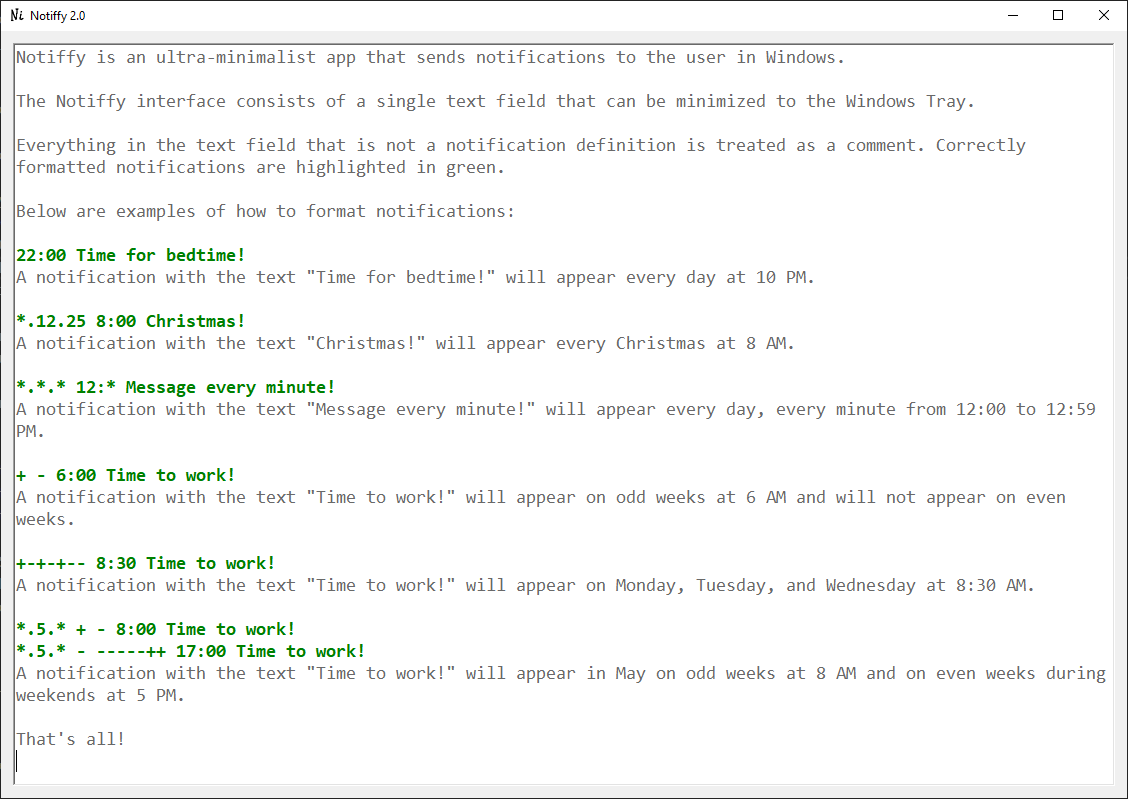
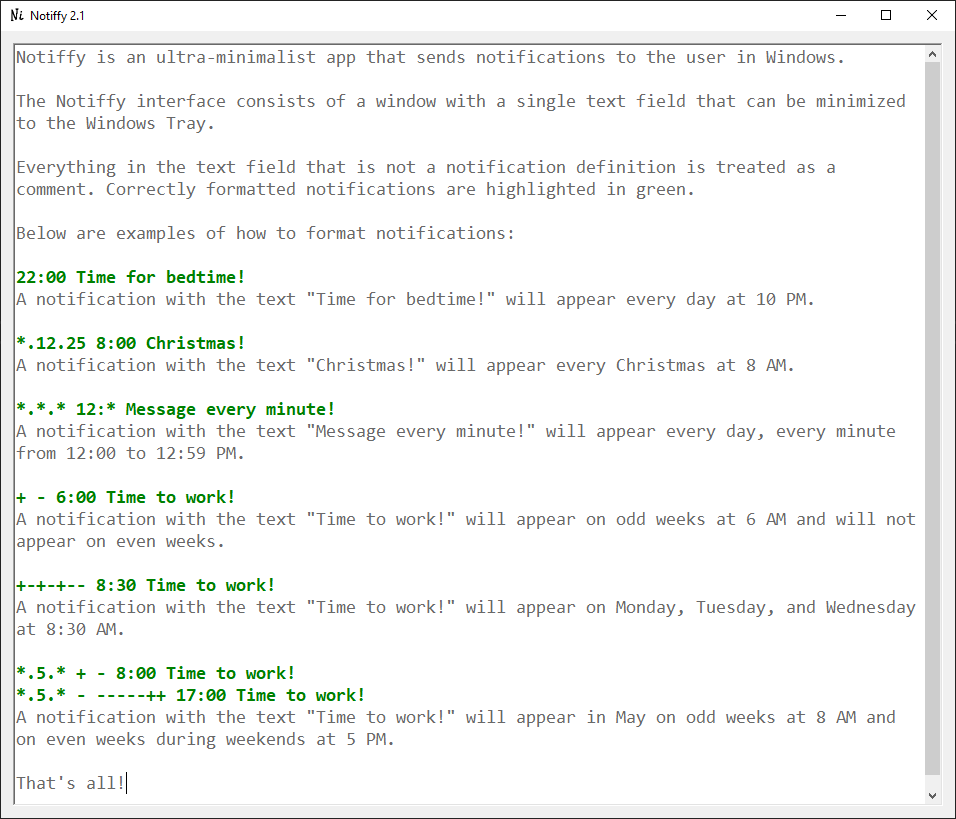
Version 2.1

Changed region(s): [[0.0, 0.0, 1.0, 0.9912], [0.7584, 0.4205, 0.819, 0.4506]]

diff --git a/Notiffy/View/NotificationForm.Designer.cs b/Notiffy/View/NotificationForm.Designer.cs
@@ -1,0 +1,79 @@
+namespace Notiffy.View
+{
+    partial class NotificationForm
+    {
+        /// <summary>
+        /// Required designer variable.
+        /// </summary>
+        private System.ComponentModel.IContainer components = null;
+
+        /// <summary>
+        /// Clean up any resources being used.
+        /// </summary>
+        /// <param name="disposing">true if managed resources should be disposed; otherwise, false.</param>
+        protected override void Dispose(bool disposing)
+        {
+            if (disposing && (components != null))
+            {
+                components.Dispose();
+            }
+            base.Dispose(disposing);
+        }
+
+        #region Windows Form Designer generated code
+
+        /// <summary>
+        /// Required method for Designer support - do not modify
+        /// the contents of this method with the code editor.
+        /// </summary>
+        private void InitializeComponent()
+        {
+            buttonOK = new Button();
+            labelMessage = new Label();
+            SuspendLayout();
+            // 
+            // buttonOK
+            // 
+            buttonOK.BackColor = SystemColors.ButtonFace;
+            buttonOK.Cursor = Cursors.Hand;
+            buttonOK.Font = new Font("Segoe UI", 12F, FontStyle.Bold, GraphicsUnit.Point, 238);
+            buttonOK.ForeColor = SystemColors.ActiveCaptionText;
+            buttonOK.Location = new Point(350, 350);
+            buttonOK.Name = "buttonOK";
+            buttonOK.Size = new Size(100, 50);
+            buttonOK.TabIndex = 0;
+            buttonOK.Text = "OK";
+            buttonOK.UseVisualStyleBackColor = false;
+            buttonOK.Click += buttonOK_Click;
+            // 
+            // labelMessage
+            // 
+            labelMessage.Font = new Font("Segoe UI", 18F, FontStyle.Regular, GraphicsUnit.Point, 238);
+            labelMessage.Location = new Point(100, 100);
+            labelMessage.Name = "labelMessage";
+            labelMessage.Size = new Size(600, 200);
+            labelMessage.TabIndex = 2;
+            labelMessage.Text = "Notification message";
+            labelMessage.TextAlign = ContentAlignment.MiddleCenter;
+            // 
+            // NotificationForm
+            // 
+            AutoScaleDimensions = new SizeF(7F, 15F);
+            AutoScaleMode = AutoScaleMode.Font;
+            BackColor = Color.LemonChiffon;
+            ClientSize = new Size(800, 450);
+            Controls.Add(labelMessage);
+            Controls.Add(buttonOK);
+            FormBorderStyle = FormBorderStyle.None;
+            Name = "NotificationForm";
+            StartPosition = FormStartPosition.CenterScreen;
+            Text = "NotificationForm";
+            ResumeLayout(false);
+        }
+
+        #endregion
+
+        private Button buttonOK;
+        private Label labelMessage;
+    }
+}

diff --git a/Notiffy/View/NotificationForm.cs b/Notiffy/View/NotificationForm.cs
@@ -1,0 +1,58 @@
+using System.Media;
+
+namespace Notiffy.View
+{
+    public partial class NotificationForm : Form
+    {
+        private System.Windows.Forms.Timer countdownTimer;
+        private int countdownValue;
+
+        public NotificationForm()
+        {
+            InitializeComponent();
+            InitializeTimer();
+        }
+
+        private void InitializeTimer()
+        {
+            countdownTimer = new System.Windows.Forms.Timer();
+            countdownTimer.Interval = 1000;
+            countdownTimer.Tick += new EventHandler(CountdownTimer_Tick);
+        }
+
+        public void ShowYourself(string message)
+        {
+            Visible = true;
+            labelMessage.Text = message;
+            TopMost = true;
+            buttonOK.Enabled = false;
+            countdownValue = 3;
+            buttonOK.Text = countdownValue.ToString();
+            countdownTimer.Start();
+            SystemSounds.Beep.Play();
+        }
+
+        private void CountdownTimer_Tick(object sender, EventArgs e)
+        {
+            countdownValue--;
+            if (countdownValue > 0)
+            {
+                SystemSounds.Beep.Play();
+                buttonOK.Text = countdownValue.ToString();
+            }
+            else
+            {
+                countdownTimer.Stop();
+                buttonOK.Enabled = true;
+                buttonOK.Text = "OK";
+            }
+        }
+
+        private void buttonOK_Click(object sender, EventArgs e)
+        {
+            Close();
+        }
+
+
+    }
+}

diff --git a/Notiffy/Model/NotificationTimer.cs b/Notiffy/Model/NotificationTimer.cs
@@ -16,16 +16,20 @@ namespace Notiffy.Model
 
         private void OnTimerElapsed(object? sender, ElapsedEventArgs e)
         {
+            _timer.Stop(); // Zatrzymaj timer, aby uniknąć nakładania się wywołań
             CheckNotifications();
+            _timer.Start(); // Restart timer
         }
 
         private void CheckNotifications()
         {
-            
             var notification = Program.NotificationManager.RetrieveNotification();
             if (notification != null)
             {
-                Program.MainForm.ShowNotification(notification.Message);
+                // Wywołanie ShowNotification na wątku GUI
+                Program.MainForm.Invoke(new Action(() => {
+                    Program.MainForm.ShowNotification(notification.Message);
+                }));
             }
         }
     }

diff --git a/Notiffy/View/MainForm.cs b/Notiffy/View/MainForm.cs
@@ -12,11 +12,23 @@ namespace Notiffy.View
         public MainForm()
         {
             InitializeComponent();
+            this.FormClosing += MainForm_FormClosing;
+        }
+
+        private void MainForm_FormClosing(object sender, FormClosingEventArgs e)
+        {
+            if (e.CloseReason == CloseReason.UserClosing)
+            {
+                e.Cancel = true;
+                Hide();
+                notifyIcon.Visible = true;
+            }
         }
 
         public void ShowNotification(string message)
         {
-            DialogResult result = MessageBox.Show(message, "Notification", MessageBoxButtons.OK, MessageBoxIcon.Information);
+            NotificationForm nf = new();
+            nf.ShowYourself(message);
         }
 
         [DllImport("user32.dll")]

diff --git a/Notiffy/Program.cs b/Notiffy/Program.cs
@@ -9,6 +9,7 @@ namespace Notiffy
         public static NotificationParser NotificationParser { get; set; } = new();
         public static NotificationTimer NotificationTimer { get; set; } = new();
         public static MainForm MainForm { get; set; } = new();
+        public static NotificationForm NotificationForm { get; set; } = new();
 
         [STAThread]
         static void Main()

diff --git a/Notiffy/View/MainForm.Designer.cs b/Notiffy/View/MainForm.Designer.cs
@@ -51,7 +51,7 @@
             Controls.Add(richTextBoxNotification);
             Icon = (Icon)resources.GetObject("$this.Icon");
             Name = "MainForm";
-            Text = "Notiffy 2.0";
+            Text = "Notiffy 2.1";
             Load += MainForm_Load;
             Resize += MainForm_Resize;
             ResumeLayout(false);

diff --git a/README.md b/README.md
@@ -1,32 +1,35 @@
-# Notiffy 2.0
+# Notiffy 2.1
 
 Notiffy is an ultra-minimalist app that sends notifications to the user in Windows.
 
-The Notiffy interface consists of a single text field that can be minimized to the Windows Tray.
+The Notiffy interface consists of a window with a single text field that can be minimized to the Windows Tray.
 
 Everything in the text field that is not a notification definition is treated as a comment. Correctly formatted notifications are highlighted in green.
 
 Below are examples of how to format notifications:
 
-> 22:00 Time for bedtime!
-> 
+22:00 Time for bedtime!
 A notification with the text "Time for bedtime!" will appear every day at 10 PM.
 
-> *.12.25 8:00 Christmas!
+> \*.12.25 8:00 Christmas!
 > 
 A notification with the text "Christmas!" will appear every Christmas at 8 AM.
 
+> \*.\*.\* 12:\* Message every minute!
+> 
+A notification with the text "Message every minute!" will appear every day, every minute from 12:00 to 12:59 PM.
+
+> + - 6:00 Time to work!
+> 
+A notification with the text "Time to work!" will appear on odd weeks at 6 AM and will not appear on even weeks.
+
 > +-+-+-- 8:30 Time to work!
->
+> 
 A notification with the text "Time to work!" will appear on Monday, Tuesday, and Wednesday at 8:30 AM.
 
-> *.5.* + - 8:00 Time to work!
-> 
-> *.5.* - -----++ 17:00 Time to work!
+> \*.5.\* + - 8:00 Time to work!
+> \*.5.\* - -----++ 17:00 Time to work!
 > 
 A notification with the text "Time to work!" will appear in May on odd weeks at 8 AM and on even weeks during weekends at 5 PM.
 
 That's all!
-
-![Screenshot](/Notiffy/Resources/Screenshot.png?raw=true "Screenshot")
-
